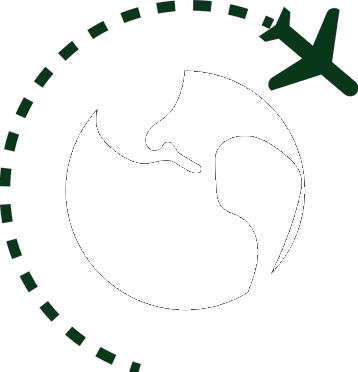
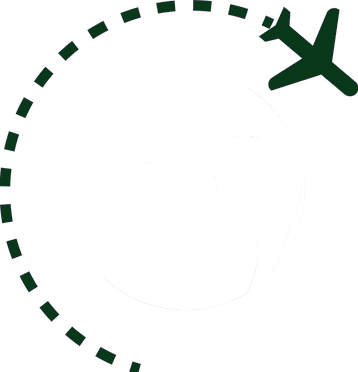
annimation d'acceuil

diff --git a/client/src/pages/Welcome/Welcome.css b/client/src/pages/Welcome/Welcome.css
@@ -1,0 +1,56 @@
+.annimated-logo {
+  margin: auto;
+  margin-top: 10vh;
+  display: grid;
+  grid-template-columns: 1fr 1fr;
+  grid-template-rows: 7fr 1fr;
+  place-items: center;
+  width: 100vw;
+}
+.globe {
+  grid-column: 1/3;
+  grid-row: 1/2;
+  width: 45%;
+}
+.plane {
+  grid-column: 1/3;
+  grid-row: 1/2;
+  animation: turnAround 3s linear infinite;
+  width: 70%;
+}
+.text-left {
+  margin-top: 3%;
+  width: 85%;
+  animation: title-left 3s ease-out 1 forwards;
+}
+.text-right {
+  margin-top: 3%;
+  width: 85%;
+  animation: title-right 3s ease-out 1 forwards;
+}
+
+@keyframes turnAround {
+  0% {
+    transform: rotate(0deg);
+  }
+  100% {
+    transform: rotate(360deg);
+  }
+}
+
+@keyframes title-left {
+  0% {
+    transform: translate(-300%);
+  }
+  100% {
+    transform: translate(8%);
+  }
+}
+@keyframes title-right {
+  0% {
+    transform: translate(300%);
+  }
+  100% {
+    transform: translate(-8%);
+  }
+}

diff --git a/client/src/pages/Welcome/Welcome.jsx b/client/src/pages/Welcome/Welcome.jsx
@@ -1,0 +1,18 @@
+import Globe from "../../assets/images/globe_only.png";
+import Plane from "../../assets/images/plane_only.png";
+import Voyage from "../../assets/images/juste-voyage.png";
+
+import "./Welcome.css";
+
+function Welcome() {
+  return (
+    <div className="annimated-logo">
+      <img className="globe" src={Globe} alt="globe" />
+      <img className="plane" src={Plane} alt="avion" />
+      <img className="text-left" src={Voyage} alt="titre gauche" />
+      <img className="text-right" src={Voyage} alt="titre droite" />
+    </div>
+  );
+}
+
+export default Welcome;

diff --git a/client/src/App.jsx b/client/src/App.jsx
@@ -1,12 +1,11 @@
-import logo from "./assets/images/zarla-voyage-voyage.png";
+import Welcome from "./pages/Welcome/Welcome";
 
 import "./App.css";
 
 function App() {
   return (
     <main>
-      <h1>Voyage Voyage</h1>
-      <img src={logo} alt="logo" />
+      <Welcome />
     </main>
   );
 }
